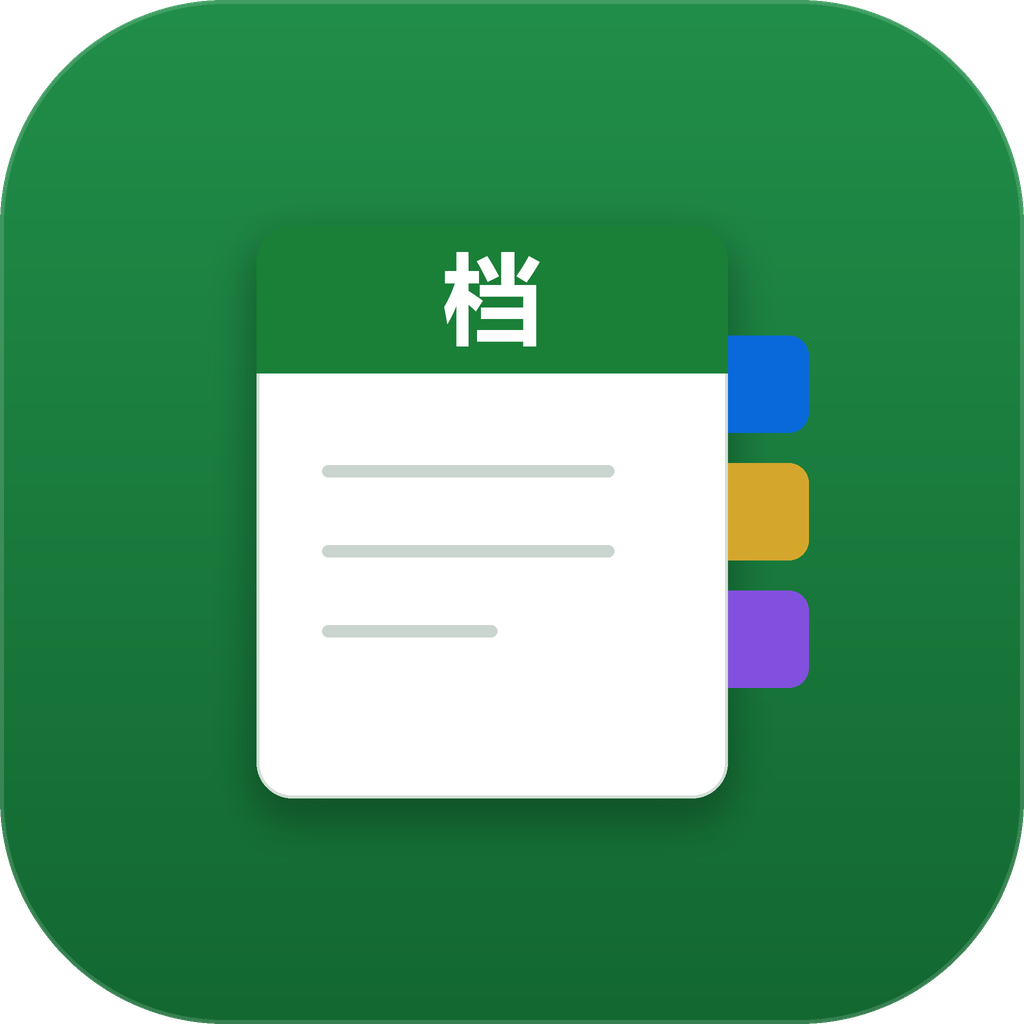
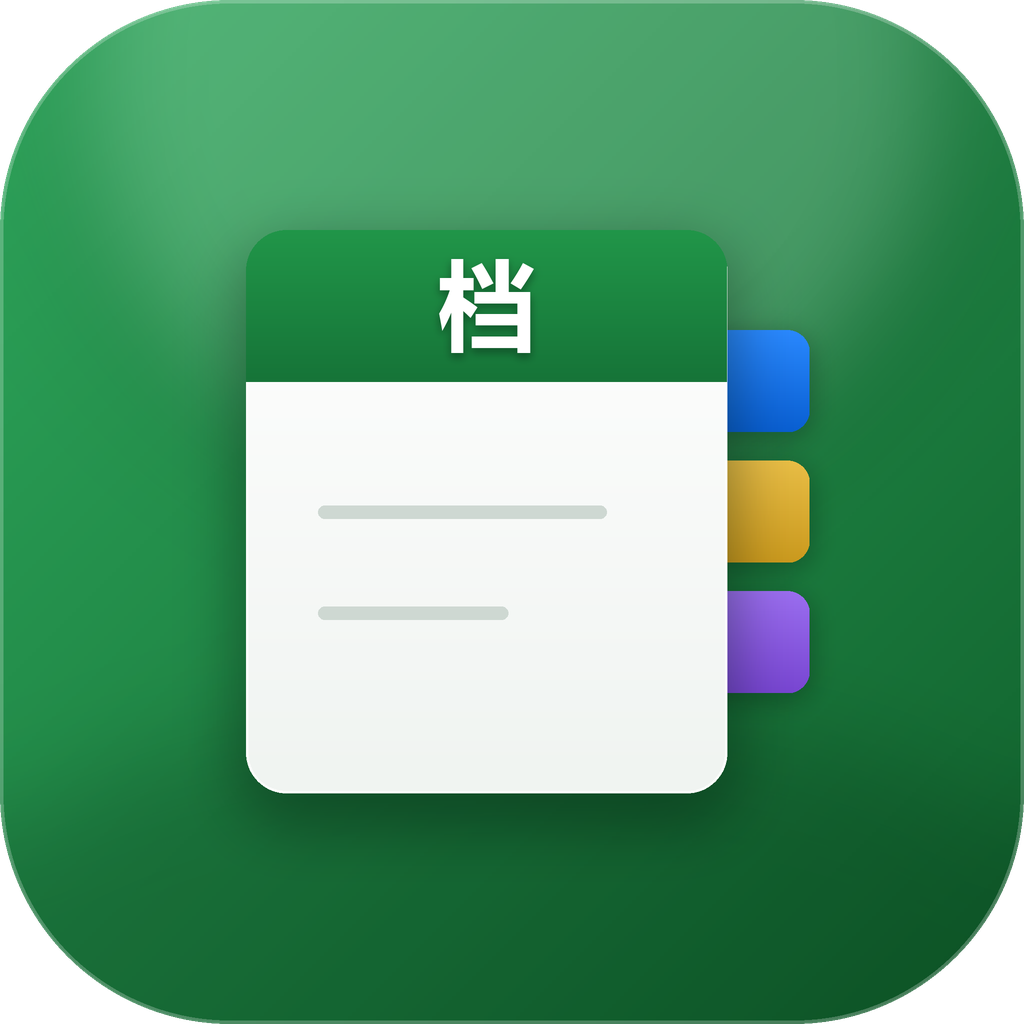
design: 图标重做为立体简约风（Apple/小米设计语言）
- 背景对角渐变 + 顶部柔光 + 底部柔影，营造体积与受光
- 卷宗卡片悬浮于大尺度柔影之上，纸面竖直微渐变 + 顶边高光
- 分类索引标签做立体渐变 + 投影，如实体书签
- 整体简约通透，主体浮起，质感对标顶级 app 图标

diff --git a/make_icon.py b/make_icon.py
@@ -1,13 +1,13 @@
 """
-make_icon.py — 应用图标生成器
-设计理念「索引卷宗」：一份法律文书 + 右侧多彩分类索引标签，
-寓意"把杂乱案件材料分类、索引、归入标准卷宗"。
-索引标签复用 app 内徽章语义色（绿/蓝/琥珀），与产品视觉语言呼应。
+make_icon.py — 应用图标生成器（立体 / 简约，Apple·小米设计语言）
+理念「索引卷宗」：悬浮的法律卷宗 + 右侧分类索引标签，
+寓意"把案件材料分类索引归入标准卷宗"。
 
-产物：
-  icon.png  1024×1024
-  icon.ico  多分辨率（16–256）
-运行：python make_icon.py
+立体技法：
+  - 背景对角渐变 + 顶部柔光 + 四角柔暗角
+  - 卡片悬浮于大尺度柔影之上（Apple 式 ambient shadow）
+  - 各表面微渐变 + 顶边高光，标签做物理质感
+产物：icon.png(1024) / icon.ico(16–256)；运行：python make_icon.py
 """
 from __future__ import annotations
 
@@ -20,131 +20,181 @@ SIZE = 1024
 SS = 2
 C = SIZE * SS
 
-# 背景品牌绿渐变
-BG_TOP = (33, 142, 73)
-BG_BOT = (19, 104, 49)
-# 卷宗文档
-PAPER = (255, 255, 255)
-PAPER_EDGE = (210, 222, 214)
-LINE = (203, 213, 207)        # 文档内容线
-HEADER = (26, 127, 55)        # 文档顶部色条（品牌绿）
-# 分类索引标签：取与绿底强对比的色，呼应 app 徽章语义（蓝/琥珀/紫）
-TABS = [(9, 105, 218), (212, 167, 44), (130, 80, 223)]  # 蓝 / 琥珀 / 紫
-
+# 背景品牌绿（对角渐变：左上亮 → 右下深）
+BG_TL = (46, 168, 92)     # #2ea85c
+BG_BR = (16, 96, 44)      # #10602c
+# 卷宗
+PAPER_TOP = (255, 255, 255)
+PAPER_BOT = (240, 244, 241)
+LINE = (206, 216, 210)
+HEADER_TOP = (33, 150, 73)
+HEADER_BOT = (22, 116, 56)
+# 分类索引标签（与 app 徽章语义色一致：蓝/琥珀/紫），每个上亮下深
+TABS = [
+    ((42, 137, 255), (9, 95, 210)),
+    ((233, 190, 70), (203, 154, 30)),
+    ((155, 110, 240), (120, 70, 210)),
+]
 FONT_BOLD = "C:/Windows/Fonts/msyhbd.ttc"
 
 
-def _rounded(canvas, box, radius, fill):
-    img = Image.new("RGBA", (canvas, canvas), (0, 0, 0, 0))
-    ImageDraw.Draw(img).rounded_rectangle(box, radius=radius, fill=fill)
-    return img
+def _blank():
+    return Image.new("RGBA", (C, C), (0, 0, 0, 0))
 
 
-def _gradient(canvas, top, bot):
-    g = Image.new("RGB", (1, canvas))
-    for y in range(canvas):
-        t = y / (canvas - 1)
+def _diag_gradient(tl, br):
+    """对角线性渐变。"""
+    small = 256
+    g = Image.new("RGB", (small, small))
+    px = g.load()
+    for y in range(small):
+        for x in range(small):
+            t = (x + y) / (2 * (small - 1))
+            px[x, y] = tuple(int(tl[i] + (br[i] - tl[i]) * t) for i in range(3))
+    return g.resize((C, C), Image.BILINEAR).convert("RGBA")
+
+
+def _vgrad(box, top, bot):
+    """在指定矩形区域生成竖直渐变图层（带 alpha=255）。"""
+    x0, y0, x1, y1 = box
+    w, h = x1 - x0, y1 - y0
+    g = Image.new("RGB", (1, h))
+    for y in range(h):
+        t = y / max(1, h - 1)
         g.putpixel((0, y), tuple(int(top[i] + (bot[i] - top[i]) * t) for i in range(3)))
-    return g.resize((canvas, canvas)).convert("RGBA")
+    g = g.resize((w, h)).convert("RGBA")
+    layer = _blank()
+    layer.paste(g, (x0, y0))
+    return layer
+
+
+def _rounded_mask(box, radius):
+    m = Image.new("L", (C, C), 0)
+    ImageDraw.Draw(m).rounded_rectangle(box, radius=radius, fill=255)
+    return m
+
+
+def _soft_shadow(box, radius, dy, blur, alpha):
+    """生成柔和投影图层。"""
+    sh = _blank()
+    ImageDraw.Draw(sh).rounded_rectangle(
+        [box[0], box[1] + dy, box[2], box[3] + dy], radius=radius, fill=(6, 40, 20, alpha)
+    )
+    return sh.filter(ImageFilter.GaussianBlur(blur))
 
 
 def build_master() -> Image.Image:
     c = C
-    base = Image.new("RGBA", (c, c), (0, 0, 0, 0))
+    base = _blank()
+    tile_radius = int(c * 0.225)
+    tile_mask = _rounded_mask([0, 0, c - 1, c - 1], tile_radius)
 
-    # ---- 背景圆角 tile + 渐变 ----
-    tile_radius = int(c * 0.22)
-    mask = Image.new("L", (c, c), 0)
-    ImageDraw.Draw(mask).rounded_rectangle([0, 0, c - 1, c - 1], radius=tile_radius, fill=255)
-    base.paste(_gradient(c, BG_TOP, BG_BOT), (0, 0), mask)
+    # ---- 背景：对角渐变 ----
+    base.paste(_diag_gradient(BG_TL, BG_BR), (0, 0), tile_mask)
 
-    # 顶边亮线（让 tile 更"实"）
-    rim = Image.new("RGBA", (c, c), (0, 0, 0, 0))
+    # 顶部柔光（径向高光，营造受光面）
+    glow = _blank()
+    ImageDraw.Draw(glow).ellipse(
+        [int(c * 0.05), int(c * -0.35), int(c * 0.95), int(c * 0.5)], fill=(255, 255, 255, 46)
+    )
+    glow = glow.filter(ImageFilter.GaussianBlur(c * 0.06))
+    base = Image.alpha_composite(base, Image.composite(glow, _blank(), tile_mask))
+
+    # 极轻底部暗角（只在下方收一点，保持通透）
+    vig = _blank()
+    ImageDraw.Draw(vig).ellipse(
+        [int(c * -0.1), int(c * 0.7), int(c * 1.1), int(c * 1.25)], fill=(0, 30, 12, 55)
+    )
+    vig = vig.filter(ImageFilter.GaussianBlur(c * 0.05))
+    base = Image.alpha_composite(base, Image.composite(vig, _blank(), tile_mask))
+
+    # 顶边高光细线
+    rim = _blank()
     ImageDraw.Draw(rim).rounded_rectangle(
-        [0, 0, c - 1, c - 1], radius=tile_radius,
-        outline=(255, 255, 255, 38), width=max(2, int(c * 0.004)),
+        [0, 0, c - 1, c - 1], radius=tile_radius, outline=(255, 255, 255, 60), width=max(2, int(c * 0.0035))
     )
-    base = Image.alpha_composite(base, Image.composite(rim, Image.new("RGBA", (c, c), (0, 0, 0, 0)), mask))
+    base = Image.alpha_composite(base, Image.composite(rim, _blank(), tile_mask))
 
-    # ---- 文档卡片几何 ----
-    pw, ph = int(c * 0.46), int(c * 0.56)         # 卡片宽高
-    px = (c - pw) // 2 - int(c * 0.02)            # 略左移，给右侧标签让位
-    py = int(c * 0.22)
-    p_radius = int(c * 0.035)
+    # ---- 卷宗卡片几何 ----
+    pw, ph = int(c * 0.47), int(c * 0.55)
+    px = (c - pw) // 2 - int(c * 0.025)
+    py = int(c * 0.225)
+    pr = int(c * 0.04)
 
-    # 卡片柔和投影
-    shadow = Image.new("RGBA", (c, c), (0, 0, 0, 0))
-    ImageDraw.Draw(shadow).rounded_rectangle(
-        [px, py + int(c * 0.018), px + pw, py + ph + int(c * 0.018)],
-        radius=p_radius, fill=(8, 46, 22, 110),
-    )
-    shadow = shadow.filter(ImageFilter.GaussianBlur(c * 0.02))
-    base = Image.alpha_composite(base, shadow)
-
-    # ---- 右侧分类索引标签（卡片右缘探出，明显可辨）----
-    tab_w = int(c * 0.11)
-    tab_h = int(c * 0.095)
-    tab_x = px + pw - int(tab_w * 0.28)            # 卡片右缘外探更多
-    gap = int(c * 0.03)
+    # 分类索引标签（先画，被卡片盖住左半）——每个立体渐变 + 小投影
+    tab_w, tab_h = int(c * 0.115), int(c * 0.10)
+    tab_x = px + pw - int(tab_w * 0.30)
+    gap = int(c * 0.028)
     total_h = len(TABS) * tab_h + (len(TABS) - 1) * gap
-    tab_y0 = py + (ph - total_h) // 2
-    for i, color in enumerate(TABS):
-        ty = tab_y0 + i * (tab_h + gap)
-        tab = _rounded(c, [tab_x, ty, tab_x + tab_w, ty + tab_h], int(c * 0.02), color + (255,))
-        base = Image.alpha_composite(base, tab)
+    ty0 = py + (ph - total_h) // 2
+    for i, (t_top, t_bot) in enumerate(TABS):
+        ty = ty0 + i * (tab_h + gap)
+        box = [tab_x, ty, tab_x + tab_w, ty + tab_h]
+        base = Image.alpha_composite(base, _soft_shadow(box, int(c * 0.022), int(c * 0.006), c * 0.012, 90))
+        tmask = _rounded_mask(box, int(c * 0.022))
+        base = Image.alpha_composite(base, Image.composite(_vgrad(box, t_top, t_bot), _blank(), tmask))
 
-    # ---- 文档卡片本体（盖住标签左半，露出右侧彩色）----
-    card = _rounded(c, [px, py, px + pw, py + ph], p_radius, PAPER + (255,))
-    base = Image.alpha_composite(base, card)
-    # 卡片描边
-    border = Image.new("RGBA", (c, c), (0, 0, 0, 0))
-    ImageDraw.Draw(border).rounded_rectangle(
-        [px, py, px + pw, py + ph], radius=p_radius, outline=PAPER_EDGE + (255,), width=max(2, int(c * 0.003)),
+    # 卡片大柔影（悬浮感）
+    card_box = [px, py, px + pw, py + ph]
+    base = Image.alpha_composite(base, _soft_shadow(card_box, pr, int(c * 0.022), c * 0.03, 120))
+
+    # 卡片纸面（竖直微渐变）
+    cmask = _rounded_mask(card_box, pr)
+    base = Image.alpha_composite(base, Image.composite(_vgrad(card_box, PAPER_TOP, PAPER_BOT), _blank(), cmask))
+    # 纸面顶边高光
+    hl = _blank()
+    ImageDraw.Draw(hl).rounded_rectangle(card_box, radius=pr, outline=(255, 255, 255, 200), width=max(2, int(c * 0.0025)))
+    base = Image.alpha_composite(base, Image.composite(hl, _blank(), cmask))
+
+    # 顶部品牌色条（渐变绿，仅上方圆角）
+    header_h = int(ph * 0.27)
+    head_box = [px, py, px + pw, py + header_h]
+    head_layer = Image.composite(
+        _vgrad([px, py, px + pw, py + header_h], HEADER_TOP, HEADER_BOT),
+        _blank(),
+        _rounded_mask([px, py, px + pw, py + header_h + pr], pr),
     )
-    base = Image.alpha_composite(base, border)
+    # 切掉底部圆角溢出（限制在 header_box 内）
+    clip = _rounded_mask(card_box, pr)
+    hclip = Image.new("L", (c, c), 0)
+    ImageDraw.Draw(hclip).rectangle(head_box, fill=255)
+    head_layer.putalpha(Image.composite(head_layer.getchannel("A"), Image.new("L", (c, c), 0),
+                                         Image.composite(hclip, Image.new("L", (c, c), 0), clip)))
+    base = Image.alpha_composite(base, head_layer)
 
     draw = ImageDraw.Draw(base)
 
-    # 文档顶部品牌色条 + 「档」字
-    header_h = int(ph * 0.26)
-    hd = _rounded(c, [px, py, px + pw, py + header_h + p_radius], p_radius, HEADER + (255,))
-    # 只保留顶部圆角，底部切平
-    hd_draw = ImageDraw.Draw(hd)
-    hd_draw.rectangle([px, py + header_h, px + pw, py + header_h + p_radius], fill=(0, 0, 0, 0))
-    base = Image.alpha_composite(base, hd)
-
-    draw = ImageDraw.Draw(base)
-    font = ImageFont.truetype(FONT_BOLD, int(header_h * 0.66))
+    # 「档」字（白，带极轻投影）
+    font = ImageFont.truetype(FONT_BOLD, int(header_h * 0.64))
     bbox = draw.textbbox((0, 0), "档", font=font)
     gw, gh = bbox[2] - bbox[0], bbox[3] - bbox[1]
-    draw.text(
-        (px + (pw - gw) / 2 - bbox[0], py + (header_h - gh) / 2 - bbox[1]),
-        "档", font=font, fill=(255, 255, 255, 255),
-    )
+    gx = px + (pw - gw) / 2 - bbox[0]
+    gy = py + (header_h - gh) / 2 - bbox[1]
+    sh = _blank()
+    ImageDraw.Draw(sh).text((gx, gy + int(c * 0.004)), "档", font=font, fill=(6, 40, 20, 110))
+    base = Image.alpha_composite(base, sh.filter(ImageFilter.GaussianBlur(c * 0.004)))
+    ImageDraw.Draw(base).text((gx, gy), "档", font=font, fill=(255, 255, 255, 255))
 
-    # 文档正文内容线（3 条，递减宽度，最后一条短，留白）
-    line_x = px + int(pw * 0.14)
-    line_w_full = int(pw * 0.62)
-    line_h = max(3, int(c * 0.012))
-    widths = [1.0, 1.0, 0.6]
-    start_y = py + header_h + int(ph * 0.16)
-    line_gap = int(ph * 0.14)
-    for i, wr in enumerate(widths):
-        ly = start_y + i * line_gap
+    # 正文内容线（2 条，简洁）
+    draw = ImageDraw.Draw(base)
+    line_x = px + int(pw * 0.15)
+    line_w = int(pw * 0.6)
+    line_h = max(3, int(c * 0.013))
+    for i, wr in enumerate((1.0, 0.66)):
+        ly = py + header_h + int(ph * 0.22) + i * int(ph * 0.18)
         draw.rounded_rectangle(
-            [line_x, ly, line_x + int(line_w_full * wr), ly + line_h],
-            radius=line_h // 2, fill=LINE + (255,),
+            [line_x, ly, line_x + int(line_w * wr), ly + line_h], radius=line_h // 2, fill=LINE + (255,)
         )
 
     return base.resize((SIZE, SIZE), Image.LANCZOS)
 
 
 def main():
-    master = build_master()
-    master.save(HERE / "icon.png")
+    m = build_master()
+    m.save(HERE / "icon.png")
     print(f"已生成 icon.png ({SIZE}×{SIZE})")
     sizes = [(s, s) for s in (16, 24, 32, 48, 64, 128, 256)]
-    master.save(HERE / "icon.ico", format="ICO", sizes=sizes)
+    m.save(HERE / "icon.ico", format="ICO", sizes=sizes)
     print(f"已生成 icon.ico（{len(sizes)} 分辨率）")
 
 